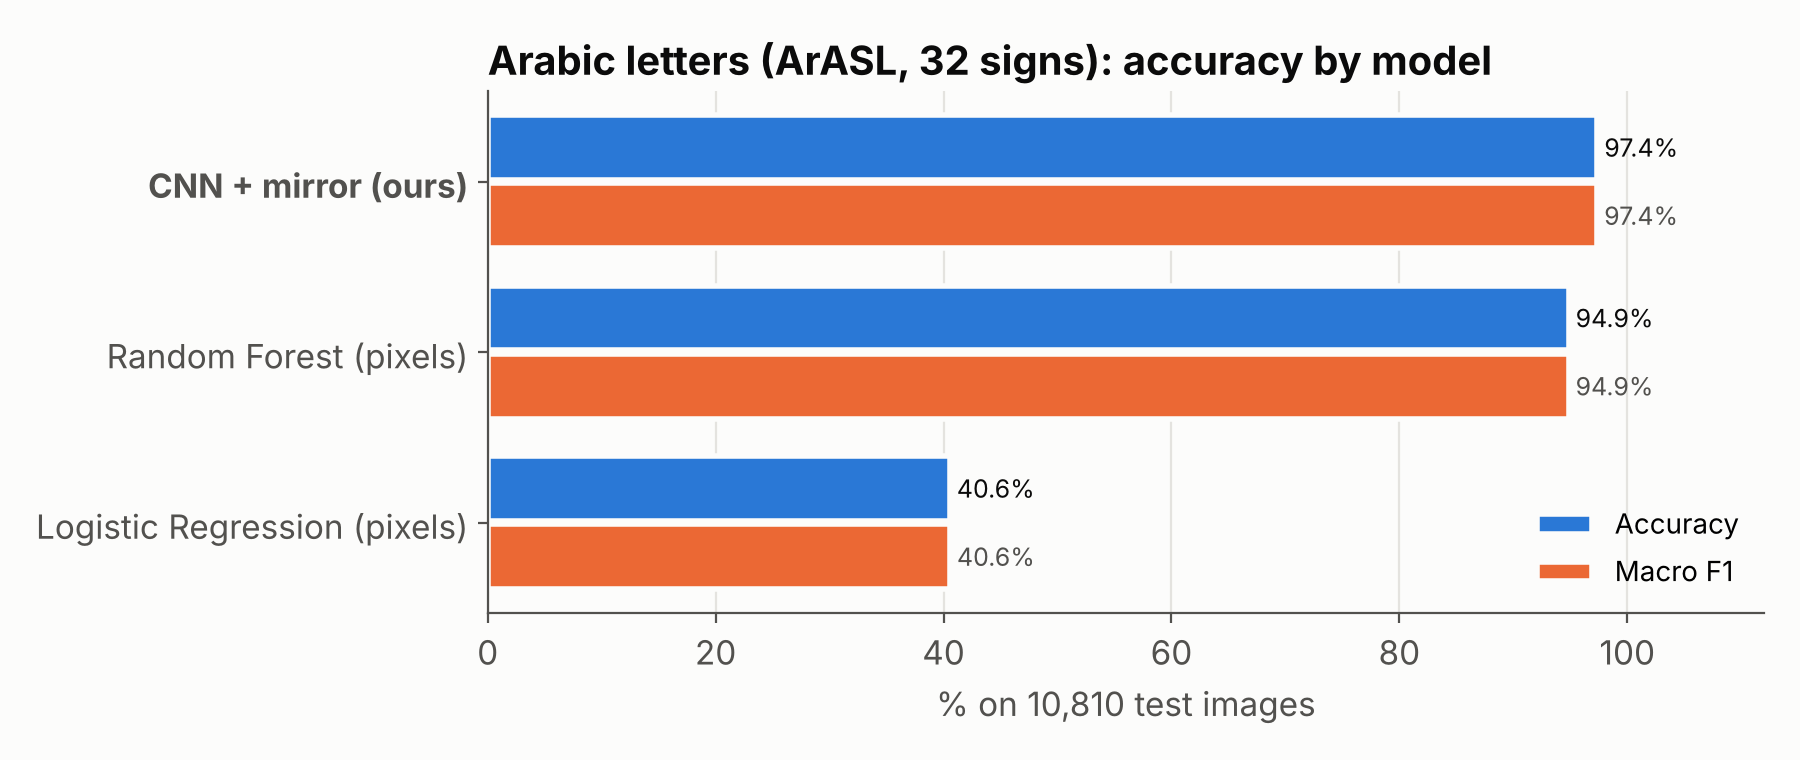
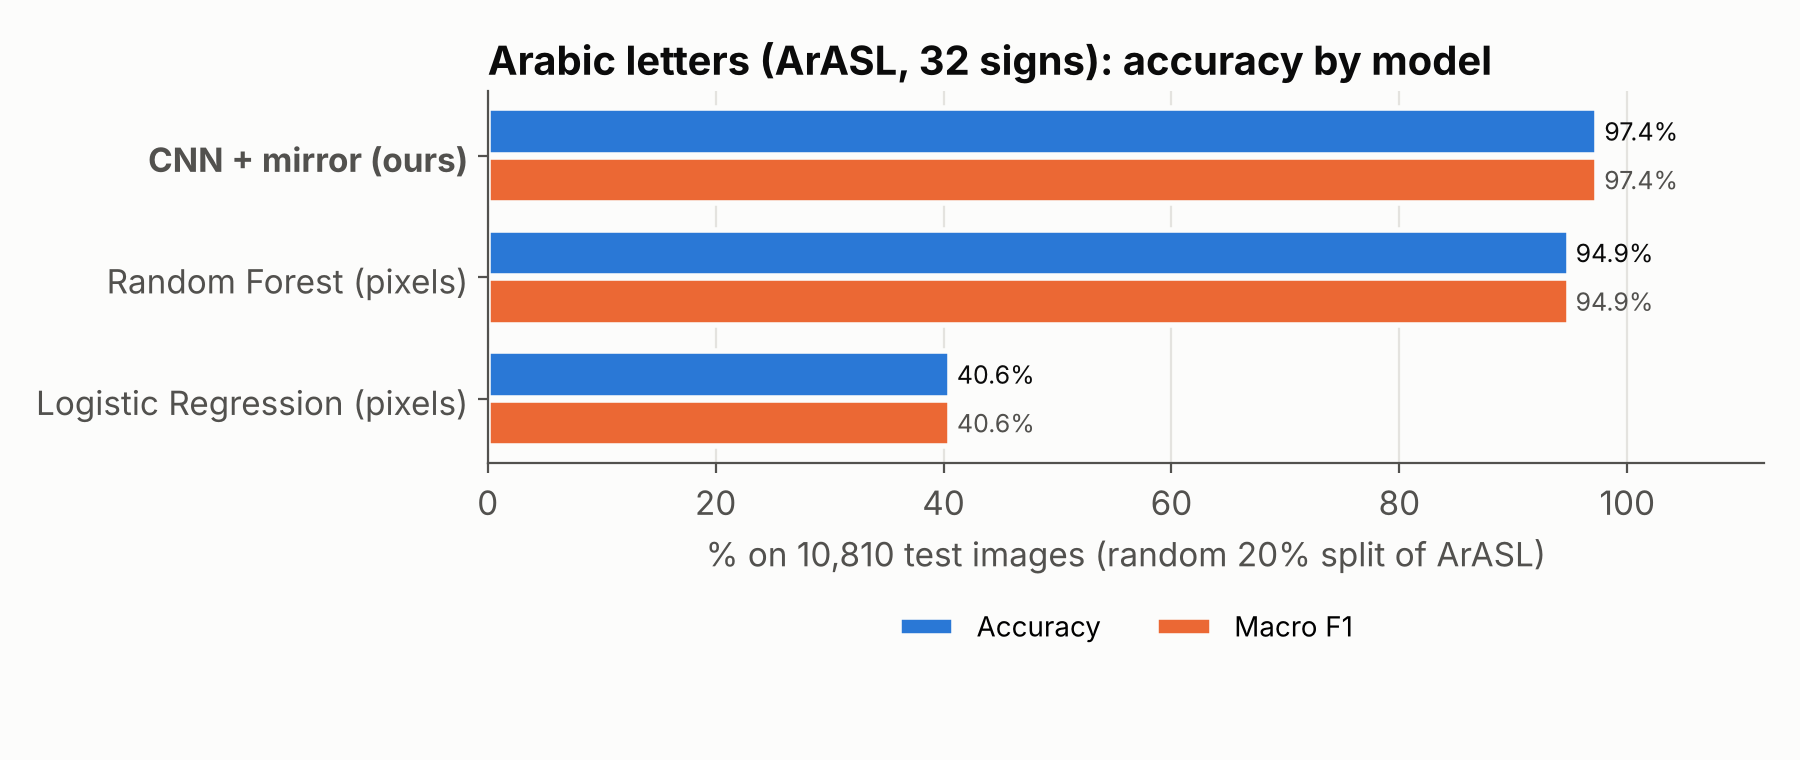
Poster charts: legend no longer covers bars; each chart states its test split
Claude-Session: https://claude.ai/code/session_01QYsRM2wJ1kjQsB18QUxYBR

diff --git a/model/training/poster_charts.py b/model/training/poster_charts.py
@@ -54,7 +54,7 @@ def compare_chart(rows, title, xlabel, path):
     ax.set_xlabel(xlabel)
     ax.grid(axis='x', color=GRID, linewidth=0.8)
     ax.set_axisbelow(True)
-    ax.legend(loc='lower right', frameon=False, fontsize=10)
+    ax.legend(loc='upper center', bbox_to_anchor=(0.5, -0.16 - 0.5 / len(rows)), ncol=2, frameon=False, fontsize=10)
     ax.set_title(title, loc='left', color=INK, fontweight='bold')
     fig.tight_layout()
     fig.savefig(path)
@@ -134,7 +134,7 @@ for name, clf in [('Random Forest (pixels)', RandomForestClassifier(300, n_jobs=
     print(ar_rows[-1], flush=True)
 summary['arabic_letters'] = {'dataset': 'ArASL (54,049 images, 32 letters)', 'split': 'random 80/20 (same signers can appear in train and test)', 'models': ar_rows}
 compare_chart(ar_rows, 'Arabic letters (ArASL, 32 signs): accuracy by model',
-              f'% on {len(y_te):,} test images', f'{OUT}/arabic_letters_accuracy.png')
+              f'% on {len(y_te):,} test images (random 20% split of ArASL)', f'{OUT}/arabic_letters_accuracy.png')
 cm = confusion_matrix(y_te, pred)
 per_class_chart(cm, classes, 'Arabic letters: accuracy per letter (ours)', f'{OUT}/arabic_letters_per_letter.png')
 confusion_chart(cm, classes, 'Arabic letters: confusion matrix (ours)', f'{OUT}/arabic_letters_confusion.png', 10)
@@ -146,7 +146,7 @@ if os.path.exists('results/asl_letters_camera.json'):  # الموديل اللي
     en_rows.append(json.load(open('results/asl_letters_camera.json')))
 summary['english_letters'] = {'dataset': 'ASL Alphabet (hand landmarks)', 'models': en_rows}
 compare_chart(en_rows, 'English letters (ASL Alphabet): accuracy by model',
-              f'% on {en_rows[0]["test_images"]} test hands', f'{OUT}/english_letters_accuracy.png')
+              '% on a random 20% test split of ASL Alphabet hands', f'{OUT}/english_letters_accuracy.png')
 
 # 3) الكلمات الإنجليزية: النتائج المحفوظة + رقم التصويت الجديد
 words = {'cnn': json.load(open('training/results/asl_words_summary.json')),
